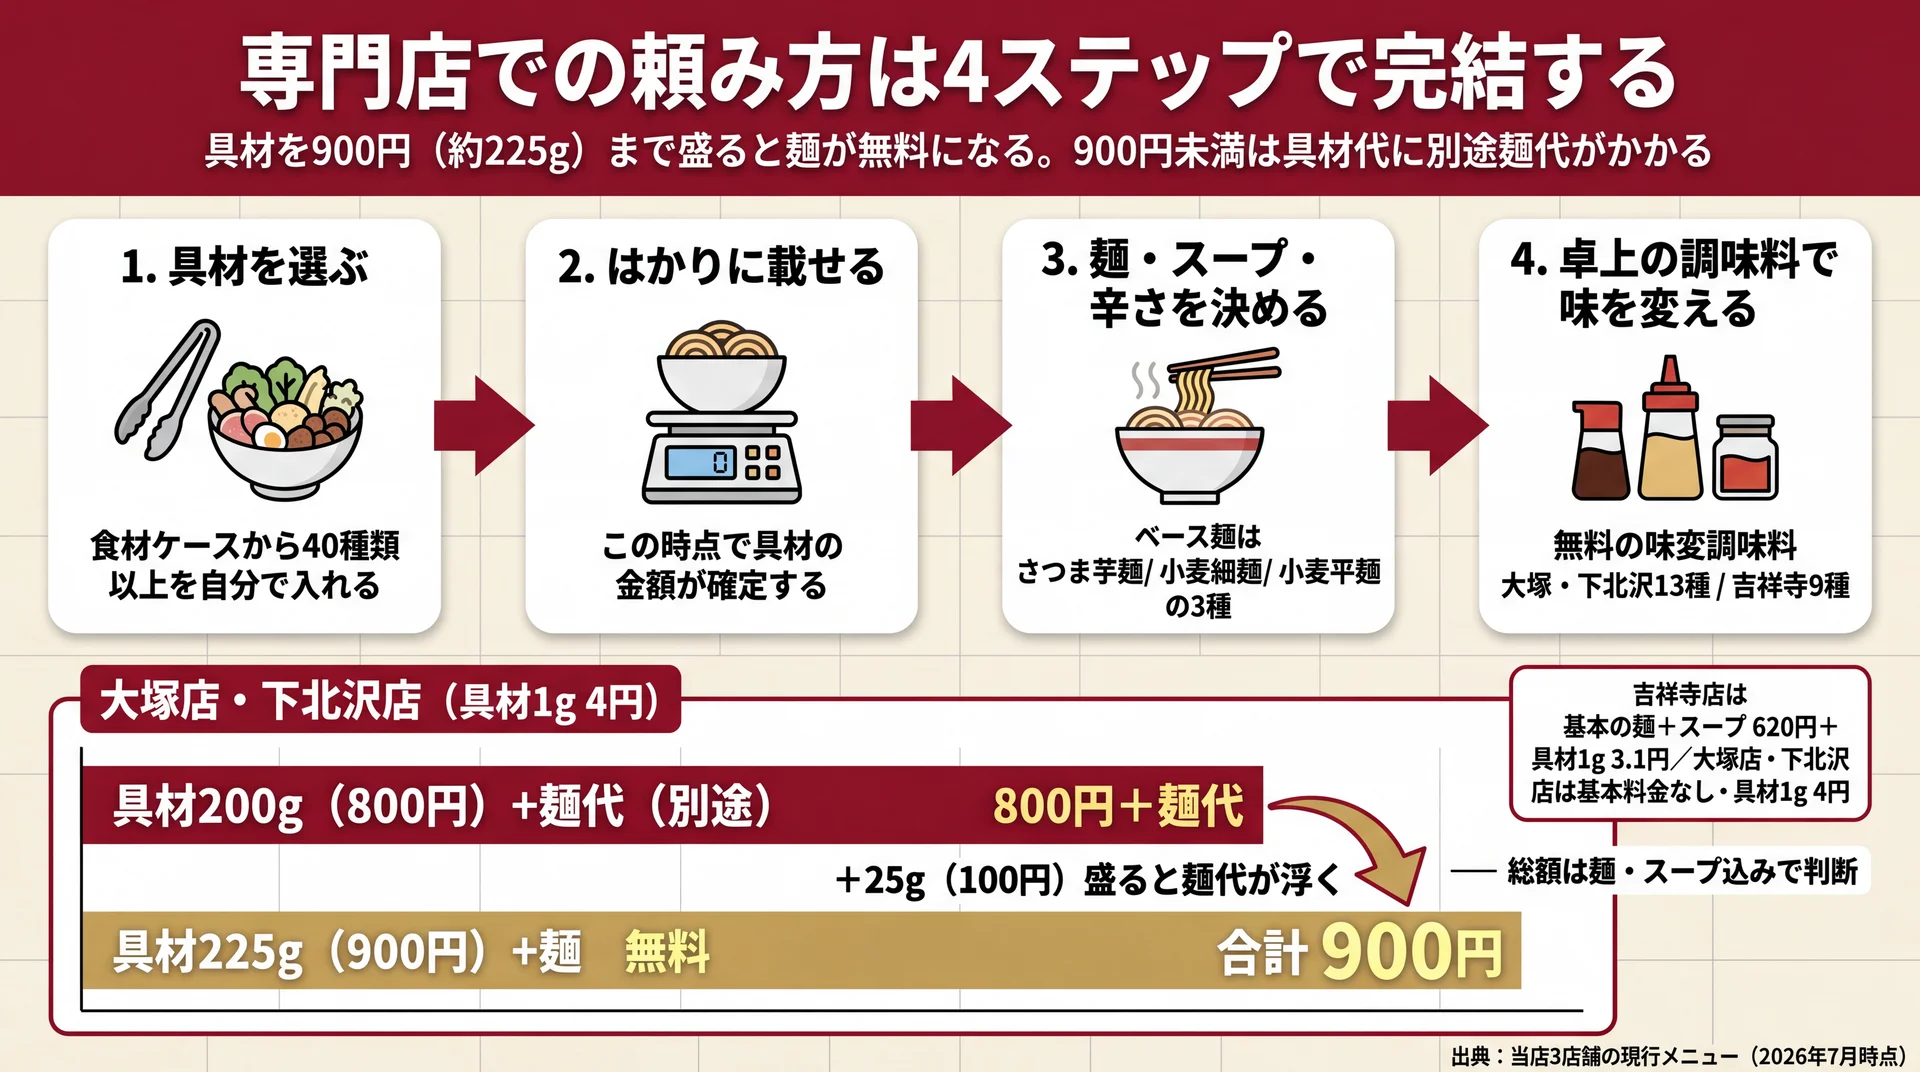
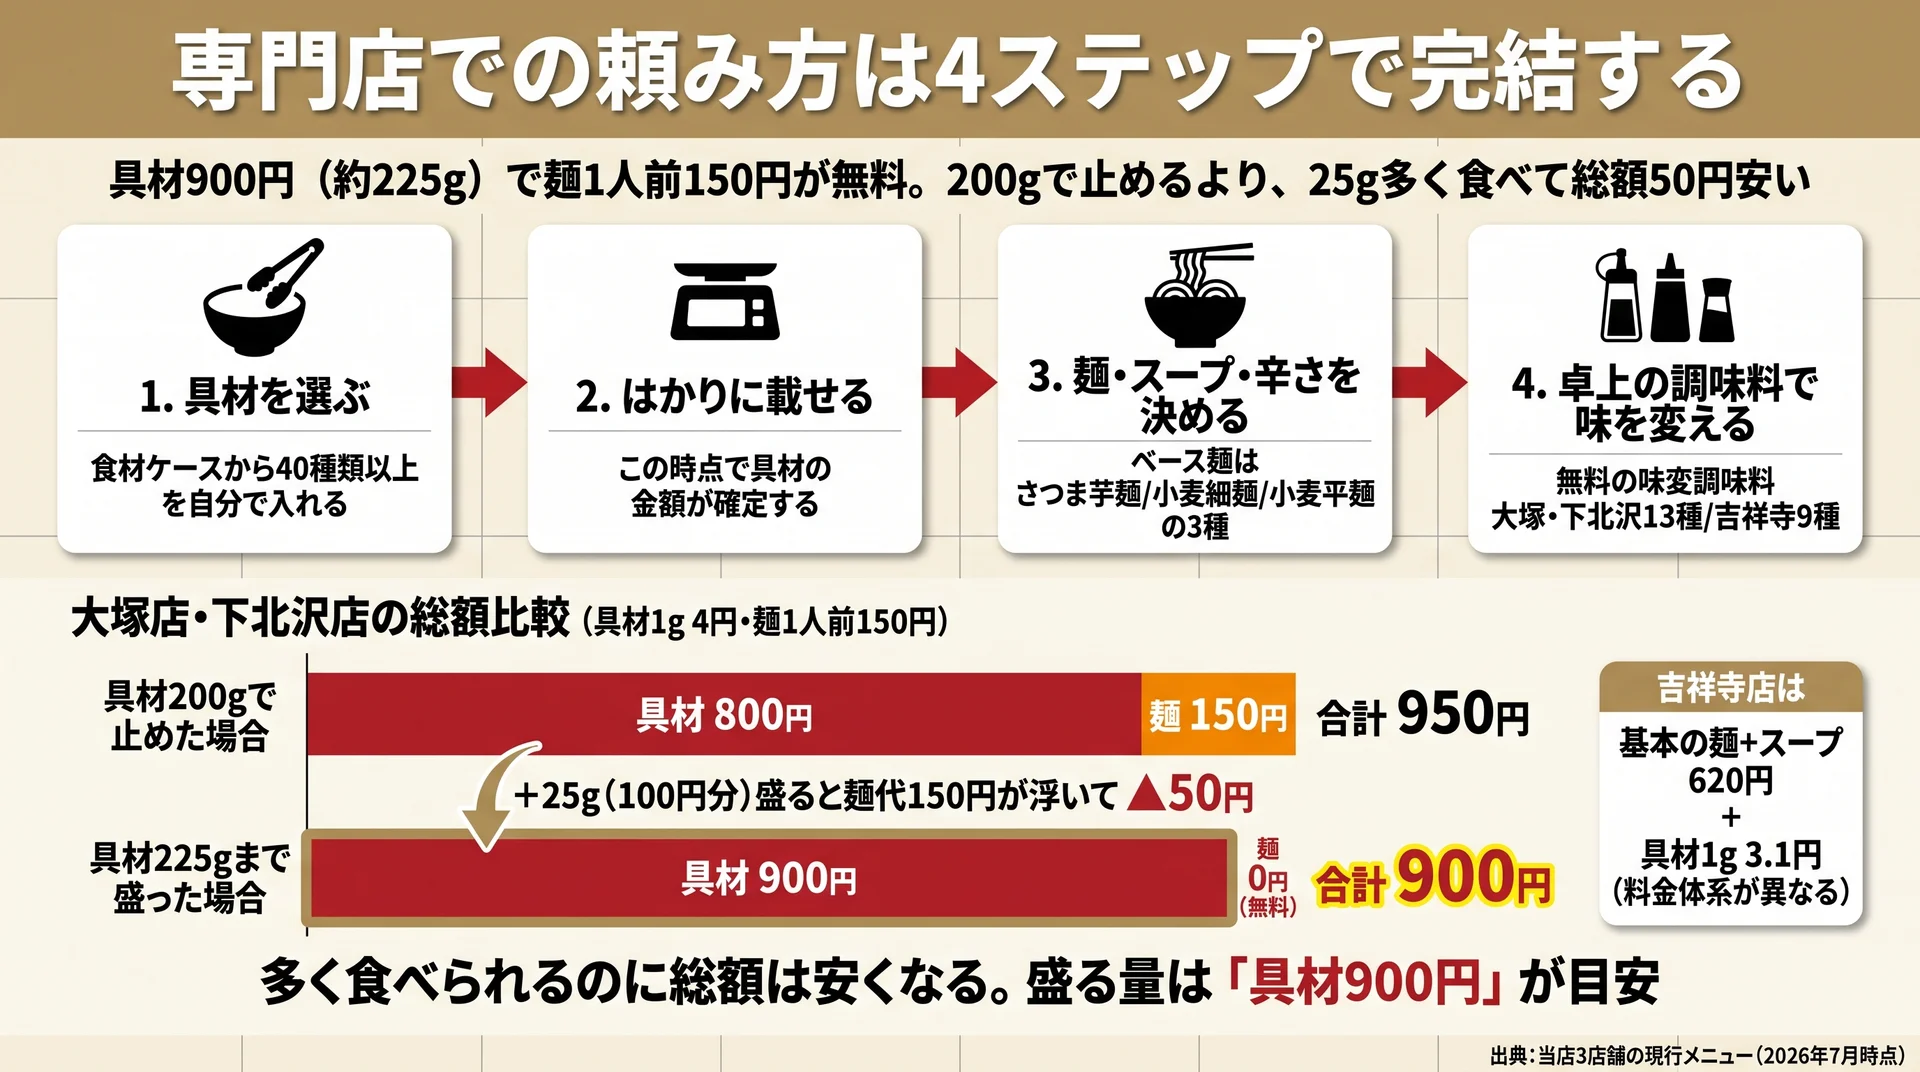
publish: what-is-malatang

diff --git a/2026/07/what-is-malatang.html b/2026/07/what-is-malatang.html
@@ -154,7 +154,7 @@
 <p style="margin:14px 0; line-height:1.7;">4料理はいずれも「辛いスープ」の括りに入るため、味の説明だけでは区別がつきません。分岐点になるのは、辛さのどの成分が中心にあるかです。マーラータンと火鍋は花椒の痺れを含みますが、担々麺はごまのコクと辣油、酸辣湯は酢の酸味が前に出ます。</p>
 <p style="margin:14px 0; line-height:1.7;">もうひとつの分岐点が提供の単位です。火鍋は1つの鍋を共有しますが、マーラータンは器ごとに中身が違ってかまいません。<span style="background:linear-gradient(transparent 60%,#FFFF00 60%)"><strong>辛味の主役と提供の単位という2軸を押さえておけば、メニュー名を見ただけで料理の見当がつきます。</strong></span></p>
 <h2 style="font-size:24px; font-weight:600; margin:32px 0 16px; padding-bottom:8px; border-bottom:1px solid #eaeef2; line-height:1.3;">専門店での頼み方は4ステップで完結する</h2>
-<p style="margin:14px 0; line-height:1.7;"><img src="https://shun-toda.github.io/html-publish/2026/07/what-is-malatang/h2_03_%E9%A0%BC%E3%81%BF%E6%96%B9_4%E3%82%B9%E3%83%86%E3%83%83%E3%83%97.webp" alt="注文の4ステップと、大塚店・下北沢店で具材900円以上にすると麺1人前が無料になる境界を示した費用比較図" loading="lazy" style="max-width:100%; height:auto; display:block; margin:16px auto; border-radius:6px;" /><br><em>注文の流れと、麺1人前が無料になる境界（具材900円以上）の位置関係を示した（当社3店舗の現行メニュー・2026年7月時点に基づく）</em></p>
+<p style="margin:14px 0; line-height:1.7;"><img src="https://shun-toda.github.io/html-publish/2026/07/what-is-malatang/h2_03_%E9%A0%BC%E3%81%BF%E6%96%B9_4%E3%82%B9%E3%83%86%E3%83%83%E3%83%97.webp" alt="注文の4ステップと、大塚店・下北沢店では具材200g＋麺150円の合計950円より、具材225gで麺が無料になる合計900円のほうが50円安くなる逆転を示した総額比較図" loading="lazy" style="max-width:100%; height:auto; display:block; margin:16px auto; border-radius:6px;" /><br><em>注文の流れと総額の逆転——具材900円（約225g）で麺1人前150円が無料になるため、200gで止める（合計950円）より25g多く盛る（合計900円）ほうが50円安い（当店3店舗の現行メニュー・2026年7月時点に基づく）</em></p>
 <p style="margin:14px 0; line-height:1.7;">専門店での注文は、具材を選ぶ・重さを量る・麺とスープと辛さを決める・調味料で味を変える、の4ステップで完結します。当店でも、食材ケースから40種類以上の具材を自分でボウルに入れ、レジでスープの種類・辛さ・麺の種類を選んで会計する流れで運用しています。</p>
 <h3 style="font-size:20px; font-weight:600; margin:24px 0 12px; line-height:1.3;">ステップ1・2：具材を選び、量りにのせる</h3>
 <p style="margin:14px 0; line-height:1.7;">入店したら食材ケースの前でトングとボウルを取り、食べたい具材を自分で入れていきます。当店では野菜・きのこ・豆腐・肉・海鮮など40種類以上を並べています。</p>
@@ -169,7 +169,7 @@
 <p style="margin:14px 0; line-height:1.7;">黒酢を入れれば酸味が加わって後半まで飽きずに食べられますし、花椒オイルを足せば痺れを強められます。芝麻醤を溶かせば、辛さの角が取れてまろやかになります。<strong>注文時の辛さは「土台」、卓上の調味料は「仕上げ」と役割を分けて考えると、選択の失敗が起きにくくなります。</strong></p>
 <h3 style="font-size:20px; font-weight:600; margin:24px 0 12px; line-height:1.3;">会計はいくらになるのか——総額の考え方</h3>
 <p style="margin:14px 0; line-height:1.7;">量り売りの総額は、具材の重さに麺とスープの扱いを合わせれば事前に見積もれます。麺やスープの料金体系は店舗ごとに異なるため、当店3店舗の目安を表に整理しました。</p>
-<p style="margin:14px 0; line-height:1.7;">吉祥寺店は基本の麺＋スープ620円に、具材1gあたり3.1円が加算されます（<a href="https://prtimes.jp/main/html/rd/p/000000036.000017084.html" style="color:#0969da; text-decoration:none; border-bottom:1px solid #eaeef2;">吉祥寺店のプレスリリース</a>）。大塚店・下北沢店は基本料金がなく、具材1gあたり4円で、<span style="color:red"><strong>具材の金額が900円以上になると麺1人前が無料</strong></span>になります（<a href="https://ishokudogen.co.jp/blog/20260610/" style="color:#0969da; text-decoration:none; border-bottom:1px solid #eaeef2;">下北沢店の案内</a>）。</p>
+<p style="margin:14px 0; line-height:1.7;">吉祥寺店は基本の麺＋スープ620円に、具材1gあたり3.1円が加算されます（<a href="https://prtimes.jp/main/html/rd/p/000000036.000017084.html" style="color:#0969da; text-decoration:none; border-bottom:1px solid #eaeef2;">吉祥寺店のプレスリリース</a>）。大塚店・下北沢店は基本料金がなく、具材1gあたり4円に麺代（全種1人前150円）が加わる体系で、<span style="color:red"><strong>具材の金額が900円以上になると麺1人前が無料</strong></span>になります（<a href="https://ishokudogen.co.jp/blog/20260610/" style="color:#0969da; text-decoration:none; border-bottom:1px solid #eaeef2;">下北沢店の案内</a>）。</p>
 <div style="overflow-x:auto; margin:18px 0;"><table style="border-collapse:collapse; width:100%; font-size:14px;">
 <thead style="background:#f6f8fa;">
 <tr>
@@ -181,12 +181,12 @@
 <tbody><tr>
 <td style="border:1px solid #d0d7de; padding:8px 12px; text-align:right;">200g</td>
 <td style="border:1px solid #d0d7de; padding:8px 12px; text-align:right;">1,240円</td>
-<td style="border:1px solid #d0d7de; padding:8px 12px; text-align:right;">800円＋麺代</td>
+<td style="border:1px solid #d0d7de; padding:8px 12px; text-align:right;"><strong>950円</strong>（具材800円＋麺150円）</td>
 </tr>
 <tr>
 <td style="border:1px solid #d0d7de; padding:8px 12px; text-align:right;">225g</td>
 <td style="border:1px solid #d0d7de; padding:8px 12px; text-align:right;">1,318円</td>
-<td style="border:1px solid #d0d7de; padding:8px 12px; text-align:right;">900円（麺無料）</td>
+<td style="border:1px solid #d0d7de; padding:8px 12px; text-align:right;"><strong>900円</strong>（麺無料）</td>
 </tr>
 <tr>
 <td style="border:1px solid #d0d7de; padding:8px 12px; text-align:right;">300g</td>
@@ -199,8 +199,8 @@
 <td style="border:1px solid #d0d7de; padding:8px 12px; text-align:right;">1,600円（麺無料）</td>
 </tr>
 </tbody></table></div>
-<p style="margin:14px 0; line-height:1.7;">当店3店舗の現行メニュー（2026年7月時点）から、具材代と麺・スープの扱いのみを下限単価で算出しています（追加トッピング・辛さの追加料金・ドリンクは除く）。900円未満の場合の麺代は「＋麺代」と表記しています（金額は店頭でご確認ください）。</p>
-<p style="margin:14px 0; line-height:1.7;">1g単価が高いほうが総額では低くなる帯があります。大塚店・下北沢店では具材800円（200g）だと麺代が別途かかりますが、<span style="background:linear-gradient(transparent 60%,#FFFF00 60%)"><strong>あと25g盛って900円に届かせれば麺1人前が無料になるため、盛る量の目安を先に決めてから選ぶほうが総額を読みやすくなります。</strong></span></p>
+<p style="margin:14px 0; line-height:1.7;">当店3店舗の現行メニュー（2026年7月時点）から、具材代と麺・スープの扱いのみを下限単価で算出しています（追加トッピング・辛さの追加料金・ドリンクは除く）。大塚店・下北沢店の麺はさつま芋麺・小麦細麺・小麦平麺とも1人前150円です。</p>
+<p style="margin:14px 0; line-height:1.7;">ここで総額の逆転が起きます。大塚店・下北沢店では、具材200g（800円）で止めると麺150円が加わって合計950円です。<span style="background:linear-gradient(transparent 60%,#FFFF00 60%)"><strong>あと25g（100円分）盛って900円に載せると麺1人前が無料になり、合計は900円。25g多く食べられて、総額は50円安くなります。</strong></span>だから盛る量は「具材900円」を目安に組み立てるのが得です。</p>
 <!-- wp:group {"style":{"border":{"radius":"16px","color":"#C9B556","style":"solid","width":"1px"},"spacing":{"padding":{"top":"24px","right":"20px","bottom":"24px","left":"20px"}}},"layout":{"type":"constrained"}} -->
 <div class="wp-block-group has-border-color" style="border-color:#C9B556;border-style:solid;border-width:1px;border-radius:16px;padding-top:24px;padding-right:20px;padding-bottom:24px;padding-left:20px">
 <!-- wp:paragraph {"align":"center","style":{"typography":{"fontWeight":"700"}}} -->
